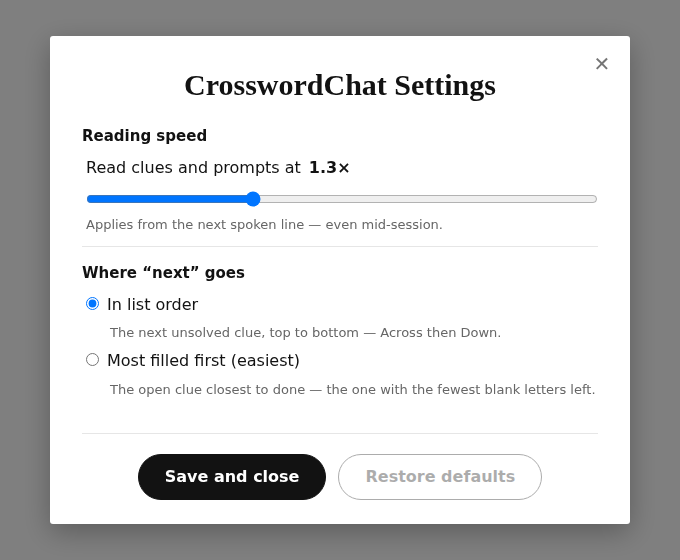
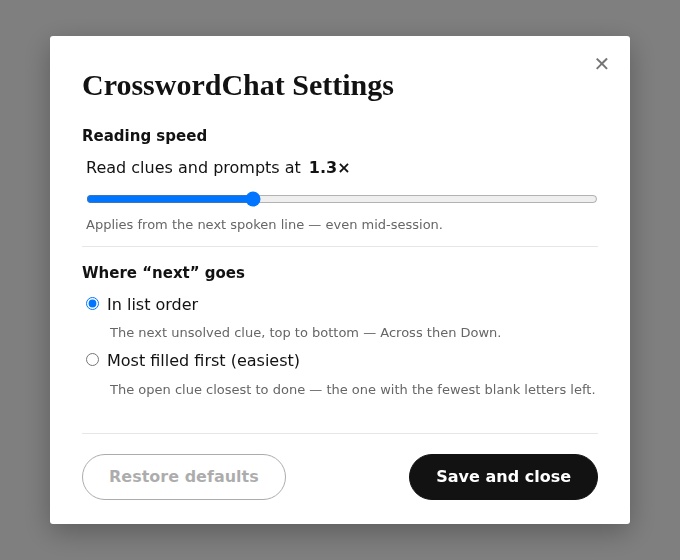
Settings modal: left-align the title, flip the button pair to match NYT
NYT's Puzzle Settings modal left-aligns its title and places the secondary
Restore-defaults on the left with the primary Save-and-close on the right.
Match both: the title is left-aligned, the button pair is reordered, and the
row spreads (space-between) so the primary lands at the right edge.

Claude-Session: https://claude.ai/code/session_018Ltmk4hEb9HzeBJWrLZEJM

Changed region(s): [[0.525, 0.7893, 0.8956, 0.9107], [0.1235, 0.1214, 0.7412, 0.1821], [0.1544, 0.7893, 0.4941, 0.9107]]

diff --git a/extension/src/page-adapter/settings-modal.js b/extension/src/page-adapter/settings-modal.js
@@ -44,7 +44,7 @@ export const SETTINGS_MODAL_CSS = `
   font-size: 20px; line-height: 1; color: #757575; cursor: pointer; border-radius: 50%;
 }
 #${MODAL_ID} .cc-close:hover { background: #f0f0f0; color: #121212; }
-#${MODAL_ID} .cc-title-wrap { text-align: center; margin: 0 0 20px; }
+#${MODAL_ID} .cc-title-wrap { text-align: left; margin: 0 0 20px; }
 #${MODAL_ID} .cc-title {
   font-family: karnak, "nyt-karnak", Georgia, "Times New Roman", serif;
   font-size: 30px; font-weight: 700; margin: 0;
@@ -62,7 +62,7 @@ export const SETTINGS_MODAL_CSS = `
 #${MODAL_ID} .cc-hint { margin: 2px 0 8px; font-size: 13px; color: #666; }
 #${MODAL_ID} .cc-hint.cc-indent { padding-left: 24px; }
 #${MODAL_ID} .cc-btns {
-  display: flex; justify-content: center; gap: 12px;
+  display: flex; justify-content: space-between; gap: 16px;
   margin-top: 22px; padding-top: 20px; border-top: 1px solid #e6e6e6;
 }
 #${MODAL_ID} .cc-btn {
@@ -110,9 +110,9 @@ export function settingsModalMarkup() {
       </section>
     </form>
     <div class="cc-btns">
-      <button type="button" class="cc-btn cc-primary" data-cc-role="save">Save and close</button>
       <button type="button" class="cc-btn cc-secondary" data-cc-role="reset"
               disabled aria-disabled="true">Restore defaults</button>
+      <button type="button" class="cc-btn cc-primary" data-cc-role="save">Save and close</button>
     </div>
   </div>
 </div>`;